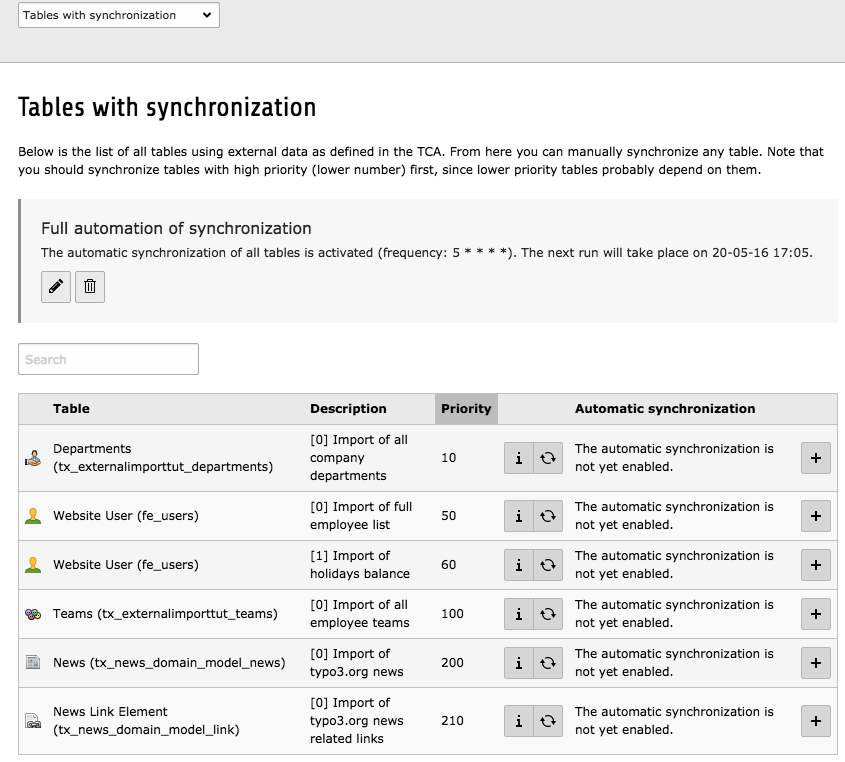
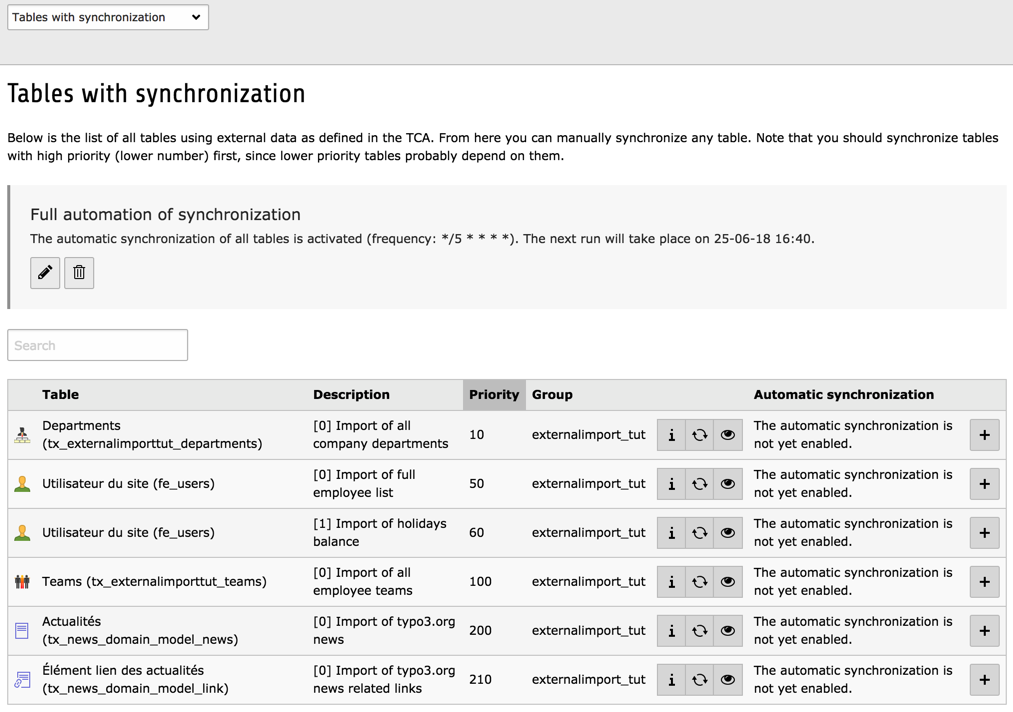
[TASK] Update documentation

diff --git a/Documentation/EmployeesImport/Employees/Index.rst b/Documentation/EmployeesImport/Employees/Index.rst
@@ -37,8 +37,7 @@ Next we add the external information to the "ctrl" section of the
            0 => [
                    'connector' => 'csv',
                    'parameters' => [
-                           'filename' => \TYPO3\CMS\Core\Utility\ExtensionManagementUtility::extPath('externalimport_tut',
-                                   'Resources/Private/Data/employees.txt'),
+                           'filename' => 'EXT:externalimport_tut/Resources/Private/Data/employees.txt',
                            'delimiter' => ';',
                            'text_qualifier' => '',
                            'skip_rows' => 1,
@@ -48,6 +47,7 @@ Next we add the external information to the "ctrl" section of the
                    'referenceUid' => 'tx_externalimporttut_code',
                    'additionalFields' => 'last_name,first_name',
                    'priority' => 50,
+                   'group' => 'externalimport_tut',
                    'disabledOperations' => '',
                    'enforcePid' => true,
                    'description' => 'Import of full employee list'
@@ -55,8 +55,7 @@ Next we add the external information to the "ctrl" section of the
            1 => [
                    'connector' => 'csv',
                    'parameters' => [
-                           'filename' => \TYPO3\CMS\Core\Utility\ExtensionManagementUtility::extPath('externalimport_tut',
-                                   'Resources/Private/Data/holidays.txt'),
+                           'filename' => 'EXT:externalimport_tut/Resources/Private/Data/holidays.txt',
                            'delimiter' => ',',
                            'text_qualifier' => '',
                            'skip_rows' => 0,
@@ -65,6 +64,7 @@ Next we add the external information to the "ctrl" section of the
                    'data' => 'array',
                    'referenceUid' => 'tx_externalimporttut_code',
                    'priority' => 60,
+                   'group' => 'externalimport_tut',
                    'disabledOperations' => 'insert,delete',
                    'description' => 'Import of holidays balance'
            ]

diff --git a/Documentation/RssImport/Setup/Index.rst b/Documentation/RssImport/Setup/Index.rst
@@ -48,6 +48,7 @@ Here is the setup for the "ctrl" section:
                    'referenceUid' => 'tx_externalimporttut_externalid',
                    'enforcePid' => true,
                    'priority' => 200,
+                   'group' => 'externalimport_tut',
                    'disabledOperations' => 'delete',
                    'description' => 'Import of typo3.org news'
            ],
@@ -92,9 +93,15 @@ Let's now look at the setup for the columns:
                    'transformations' => [
                            10 => [
                                    'userFunc' => [
-                                           'class' => \Cobweb\ExternalImport\Transformation\DateTimeTransformation::class,
-                                           'method' => 'parseDate'
+                                           'class' => \Cobweb\ExternalimportTut\Transformation\LinkTransformation::class,
+                                           'method' => 'absolutizeUrls',
+                                           'params' => [
+                                                   'host' => 'https://typo3.org'
+                                           ]
                                    ]
+                           ],
+                           20 => [
+                                   'rteEnabled' => true
                            ]
                    ]
            ]
@@ -175,6 +182,7 @@ section for the :code:`tx_news_domain_model_link`:
                    'referenceUid' => 'uri',
                    'enforcePid' => true,
                    'priority' => 210,
+                   'group' => 'externalimport_tut',
                    'disabledOperations' => 'delete',
                    'description' => 'Import of typo3.org news related links'
            ],

diff --git a/Documentation/EmployeesImport/Departments/Index.rst b/Documentation/EmployeesImport/Departments/Index.rst
@@ -36,7 +36,7 @@ and the TCA looks like this (without the "columns" section, which is
 in the dynamic configuration file):
 
 .. code-block:: php
-   :emphasize-lines: 17-35
+   :emphasize-lines: 17-33
 
 	$GLOBALS['TCA']['tx_externalimporttut_departments'] = [
            'ctrl' => [
@@ -58,10 +58,7 @@ in the dynamic configuration file):
                            0 => [
                                    'connector' => 'csv',
                                    'parameters' => [
-                                           'filename' => \TYPO3\CMS\Core\Utility\ExtensionManagementUtility::extPath(
-                                                   'externalimport_tut',
-                                                   'Resources/Private/Data/departments.txt'
-                                           ),
+                                           'filename' => 'EXT:externalimport_tut/Resources/Private/Data/departments.txt',
                                            'delimiter' => "\t",
                                            'text_qualifier' => '"',
                                            'skip_rows' => 1,
@@ -70,6 +67,7 @@ in the dynamic configuration file):
                                    'data' => 'array',
                                    'referenceUid' => 'code',
                                    'priority' => 10,
+                                   'group' => 'externalimport_tut',
                                    'description' => 'Import of all company departments'
                            ]
                    ]

diff --git a/Documentation/EmployeesImport/Teams/Index.rst b/Documentation/EmployeesImport/Teams/Index.rst
@@ -34,8 +34,7 @@ single copy of each team, based on the external primary key (the
 
 .. note::
 
-   Since "external_import" version 2.3.0, it is also possible
-   to create MM-relationships with data represented as a
+   It is also possible to create MM-relationships with data represented as a
    comma-separated list of keys, commonly used in TYPO3.
 
 In the example data above, you can see that there's a "rank" field.

diff --git a/Documentation/Index.rst b/Documentation/Index.rst
@@ -27,7 +27,7 @@ External Import Tutorial
 		  data import, fetch data, services, tutorial
 
 	:Copyright:
-		2007-2018
+		2007-2019
 
 	:Author:
 		  François Suter (Cobweb)
